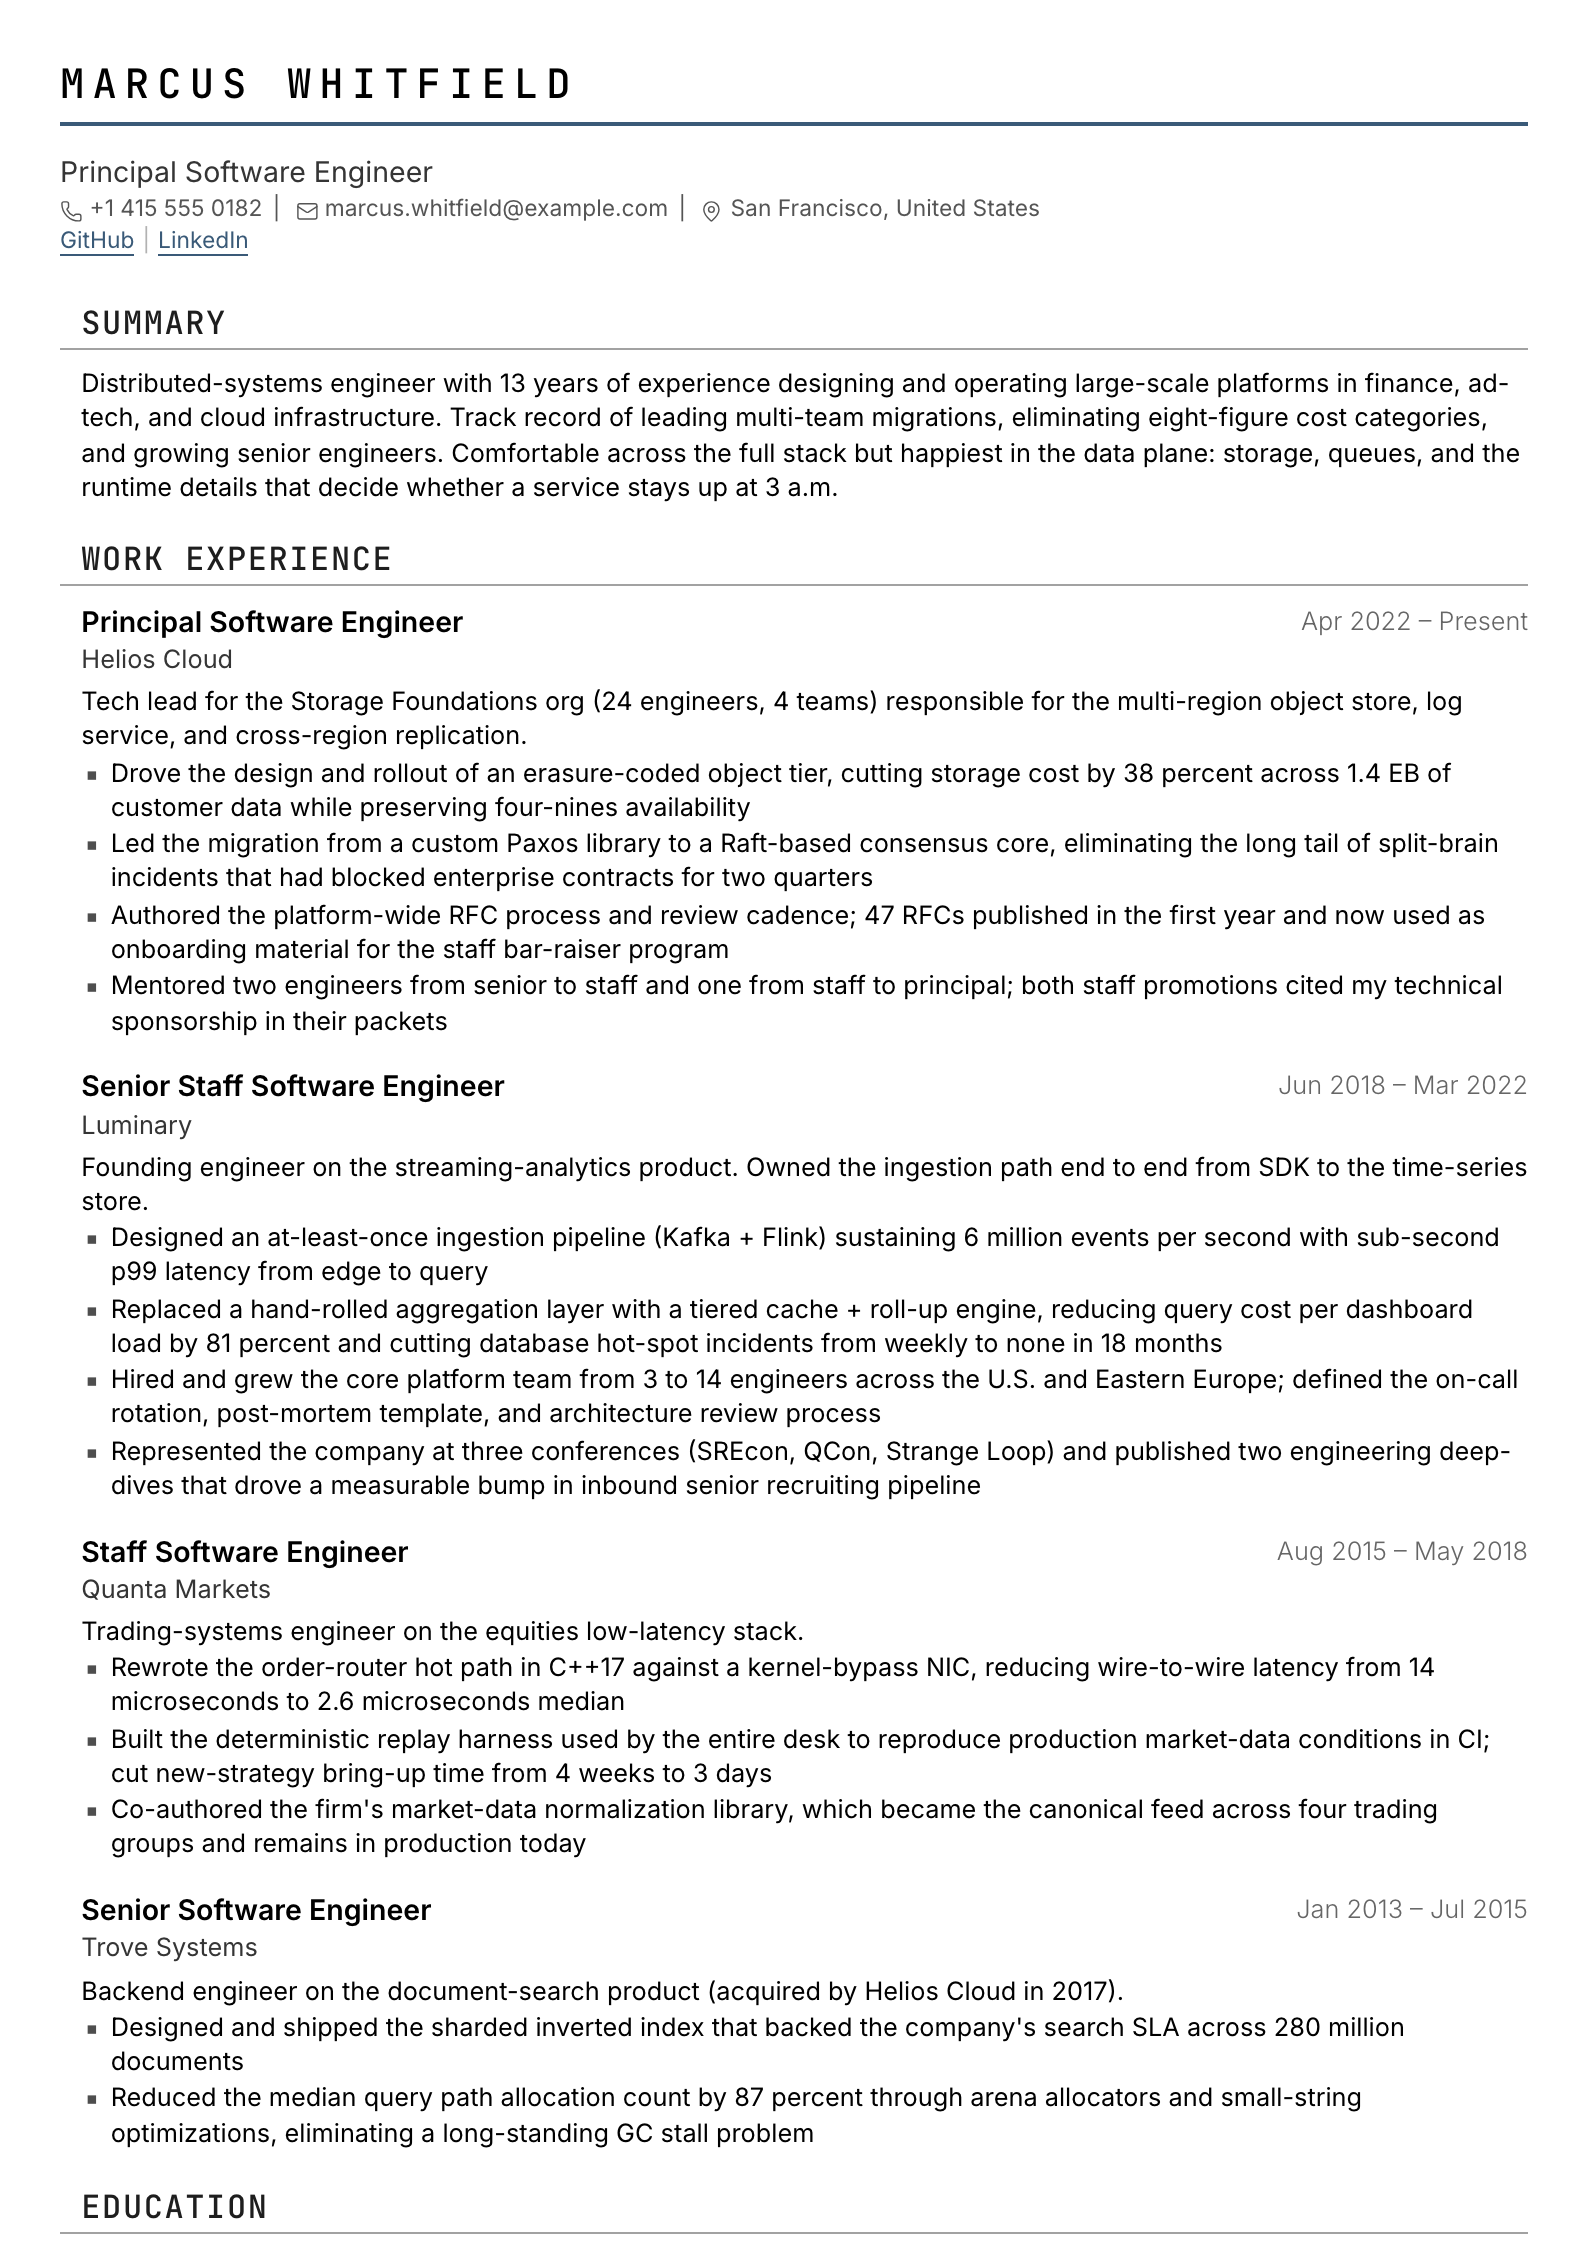
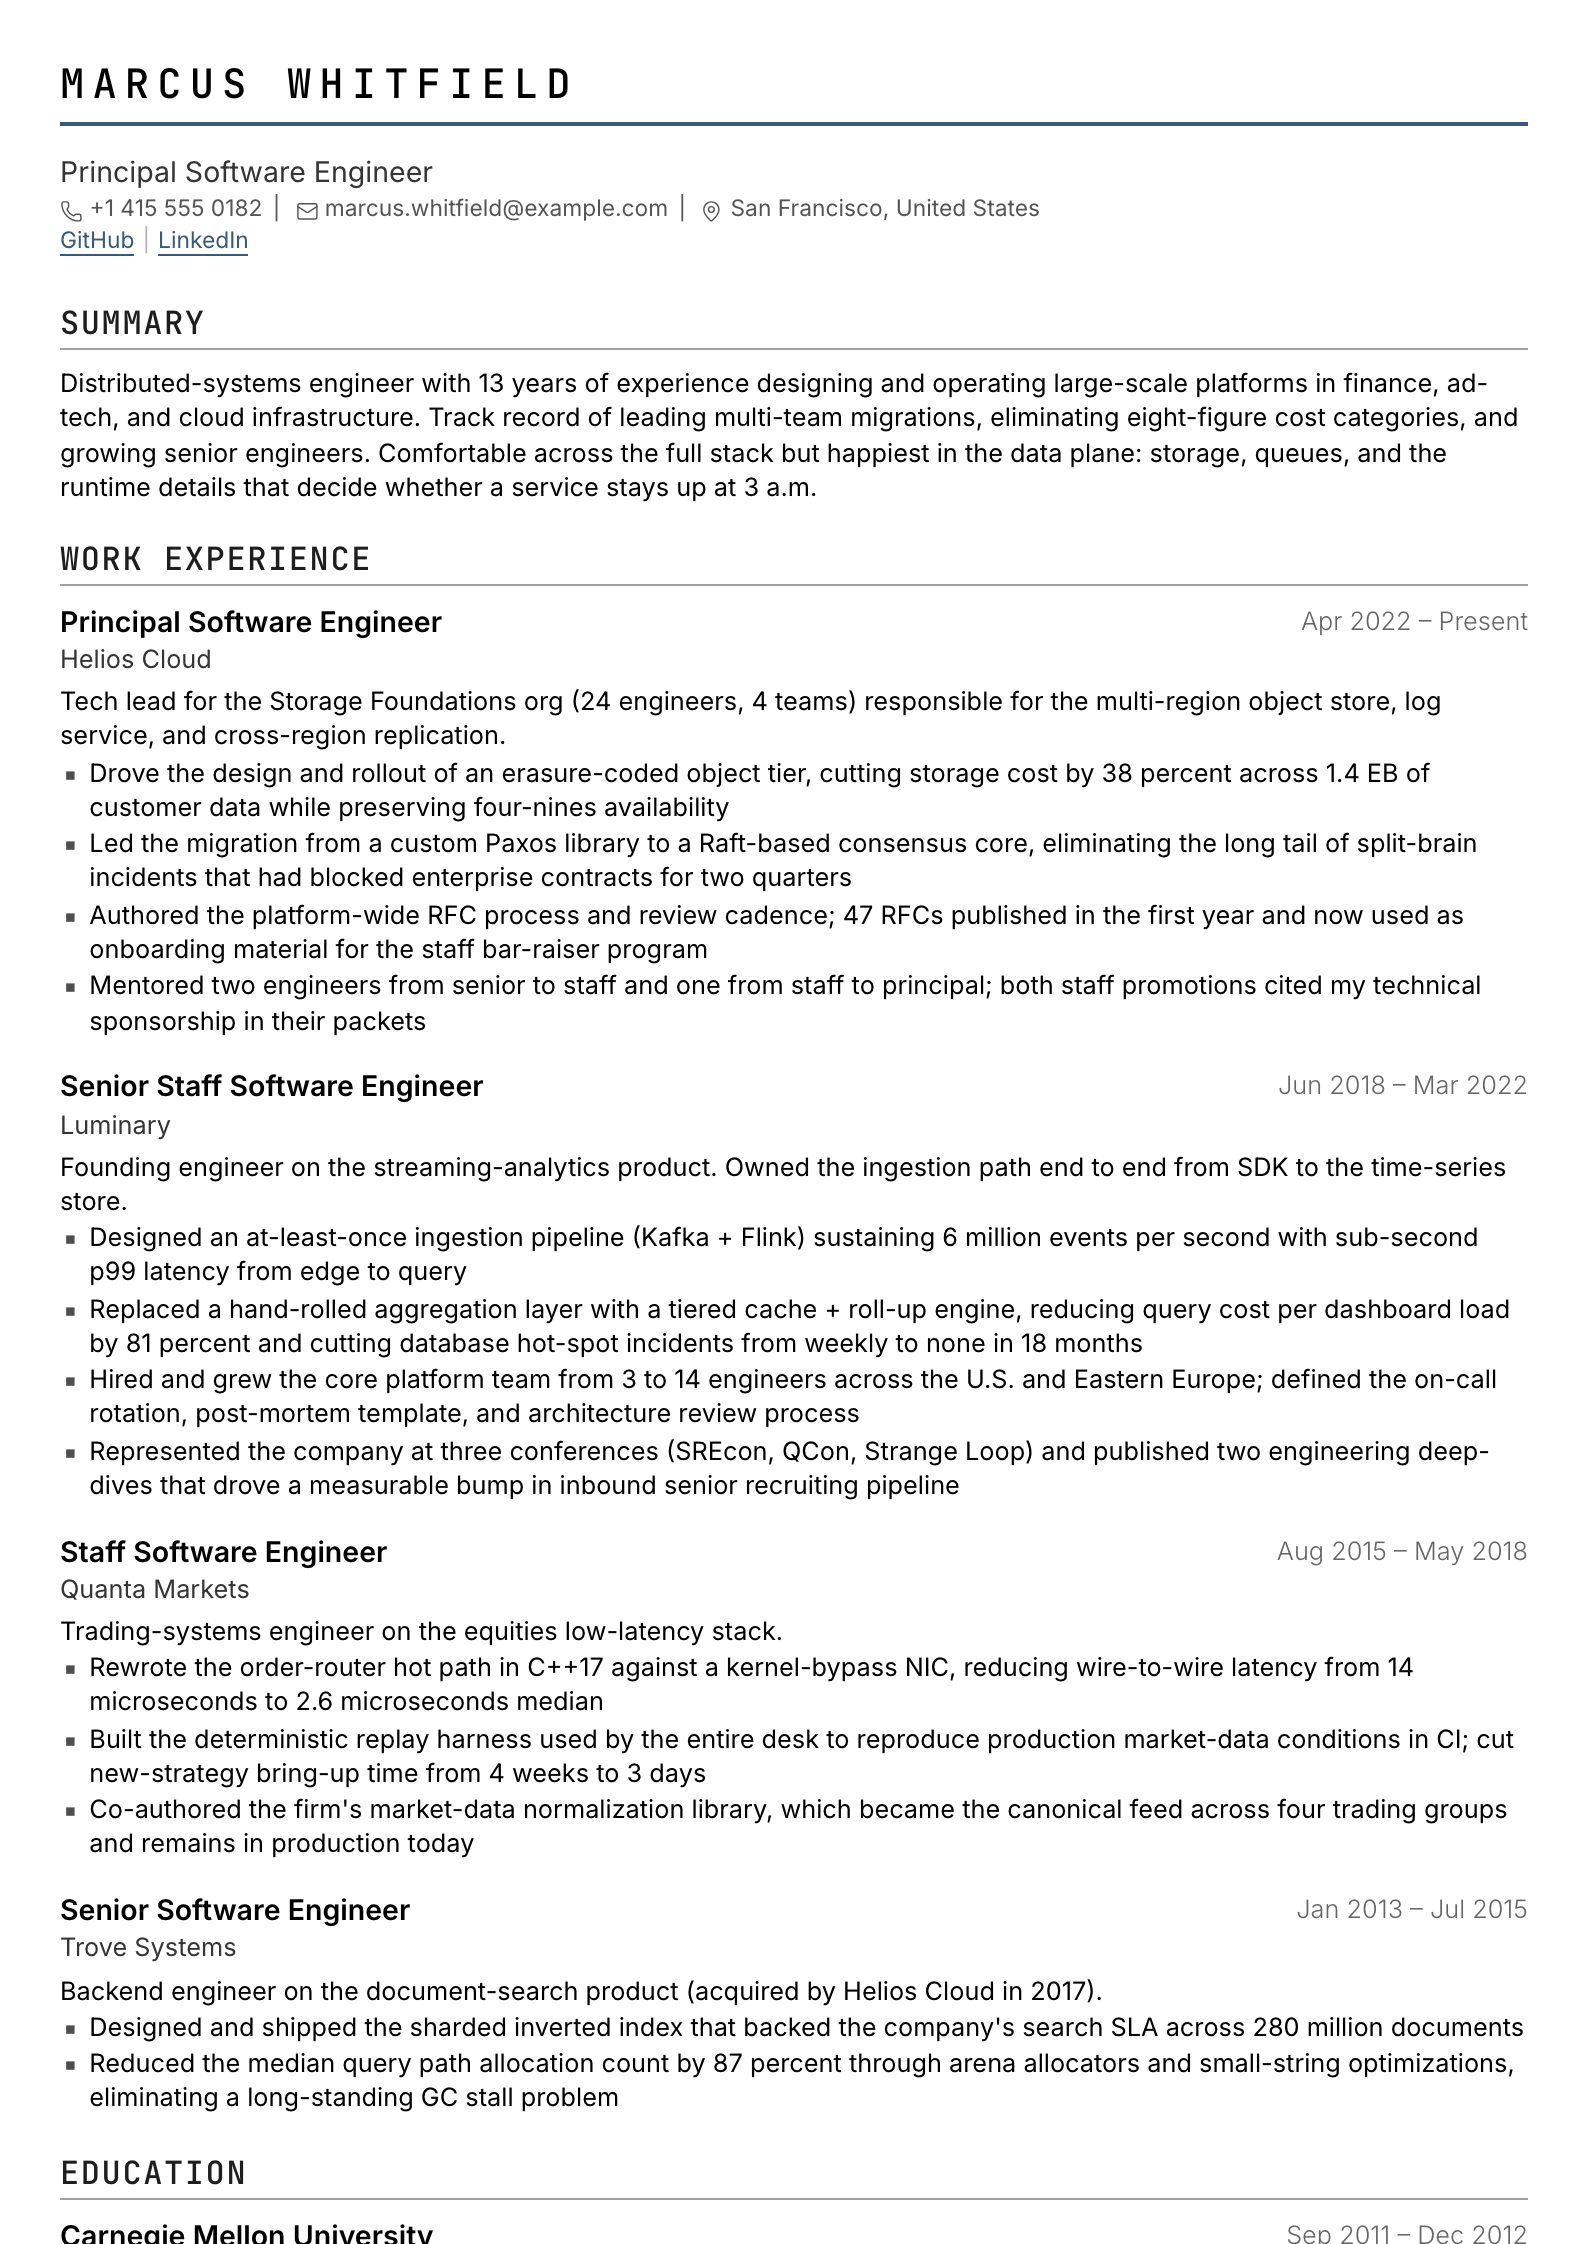
fix(skardu): heading indent follows the heading style
Skardu's own gap beside the bar now applies only while a left bar is the
heading's one border, and never stacks on a style's own left padding: a
prefix bar no longer doubles it, an underline or rule leaves headings and
content flush with the margin, a box keeps its inset. Bump to 1.0.4.

Changed region(s): [[0.0309, 0.1248, 0.9565, 1.0], [0.8023, 0.967, 0.9565, 1.0]]

diff --git a/templates/skardu/template.css b/templates/skardu/template.css
@@ -14,9 +14,19 @@
   /* Where a section heading's text starts: past the left bar (drawn only
      while the decoration is on and its left side is set) and the heading's
      own padding. Every block of section content starts here too, so the
-     body lines up with its heading. */
-  --skardu-heading-pad: calc(
-    var(--decoration-padding-left, 0pt) + calc(var(--space-item-gap, 10pt) * 0.2) + 6pt
+     body lines up with its heading.
+
+     Skardu's own gap beside the bar applies only while a left bar is the
+     heading's one border (1 / 0 from the side tokens), and never stacks on a
+     left padding the heading style brings: a prefix bar keeps its own
+     padding, an underline or rule has no bar to clear, a box keeps its inset. */
+  --skardu-bar-only: calc(
+    var(--decoration-enabled, 0) * var(--decoration-side-left, 0) * (1 - var(--decoration-side-top, 0))
+      * (1 - var(--decoration-side-right, 0)) * (1 - var(--decoration-side-bottom, 0))
+  );
+  --skardu-heading-pad: max(
+    var(--decoration-padding-left, 0pt),
+    calc(var(--skardu-bar-only) * (var(--space-item-gap, 10pt) * 0.2 + 6pt))
   );
   --skardu-indent: calc(
     var(--decoration-enabled, 0) * var(--decoration-side-left, 0) * var(--decoration-border-width, 0pt)
